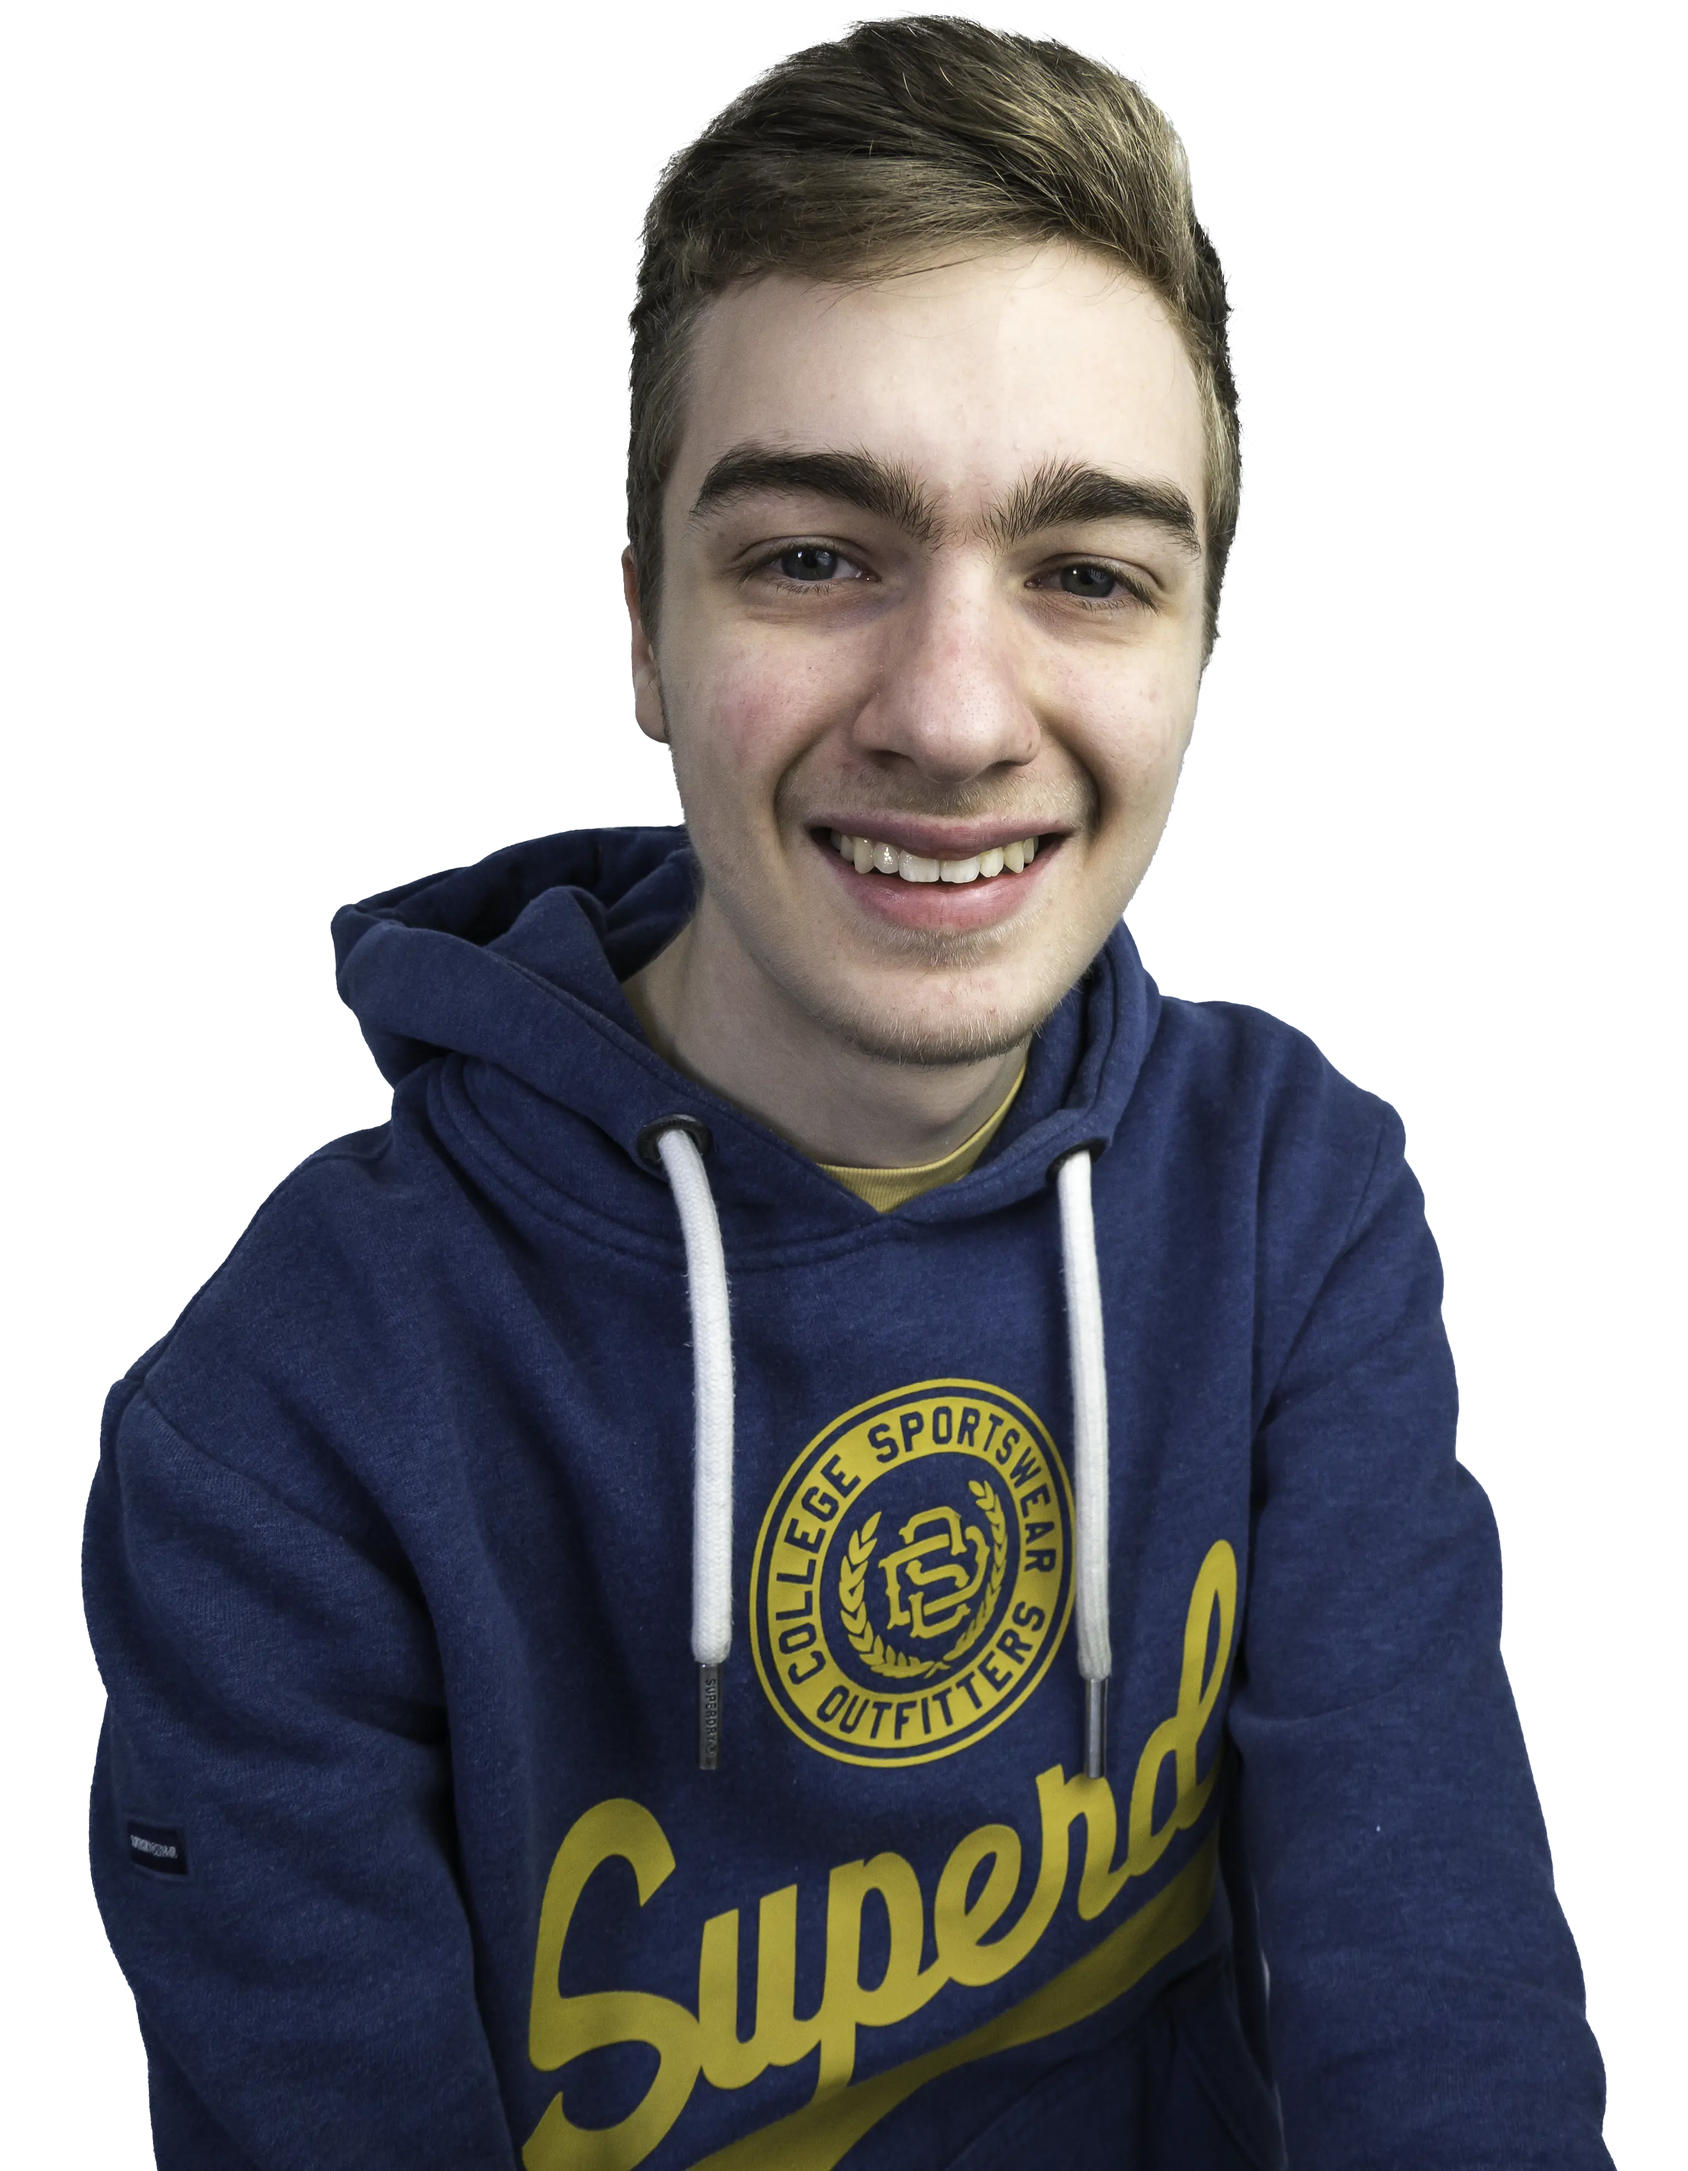
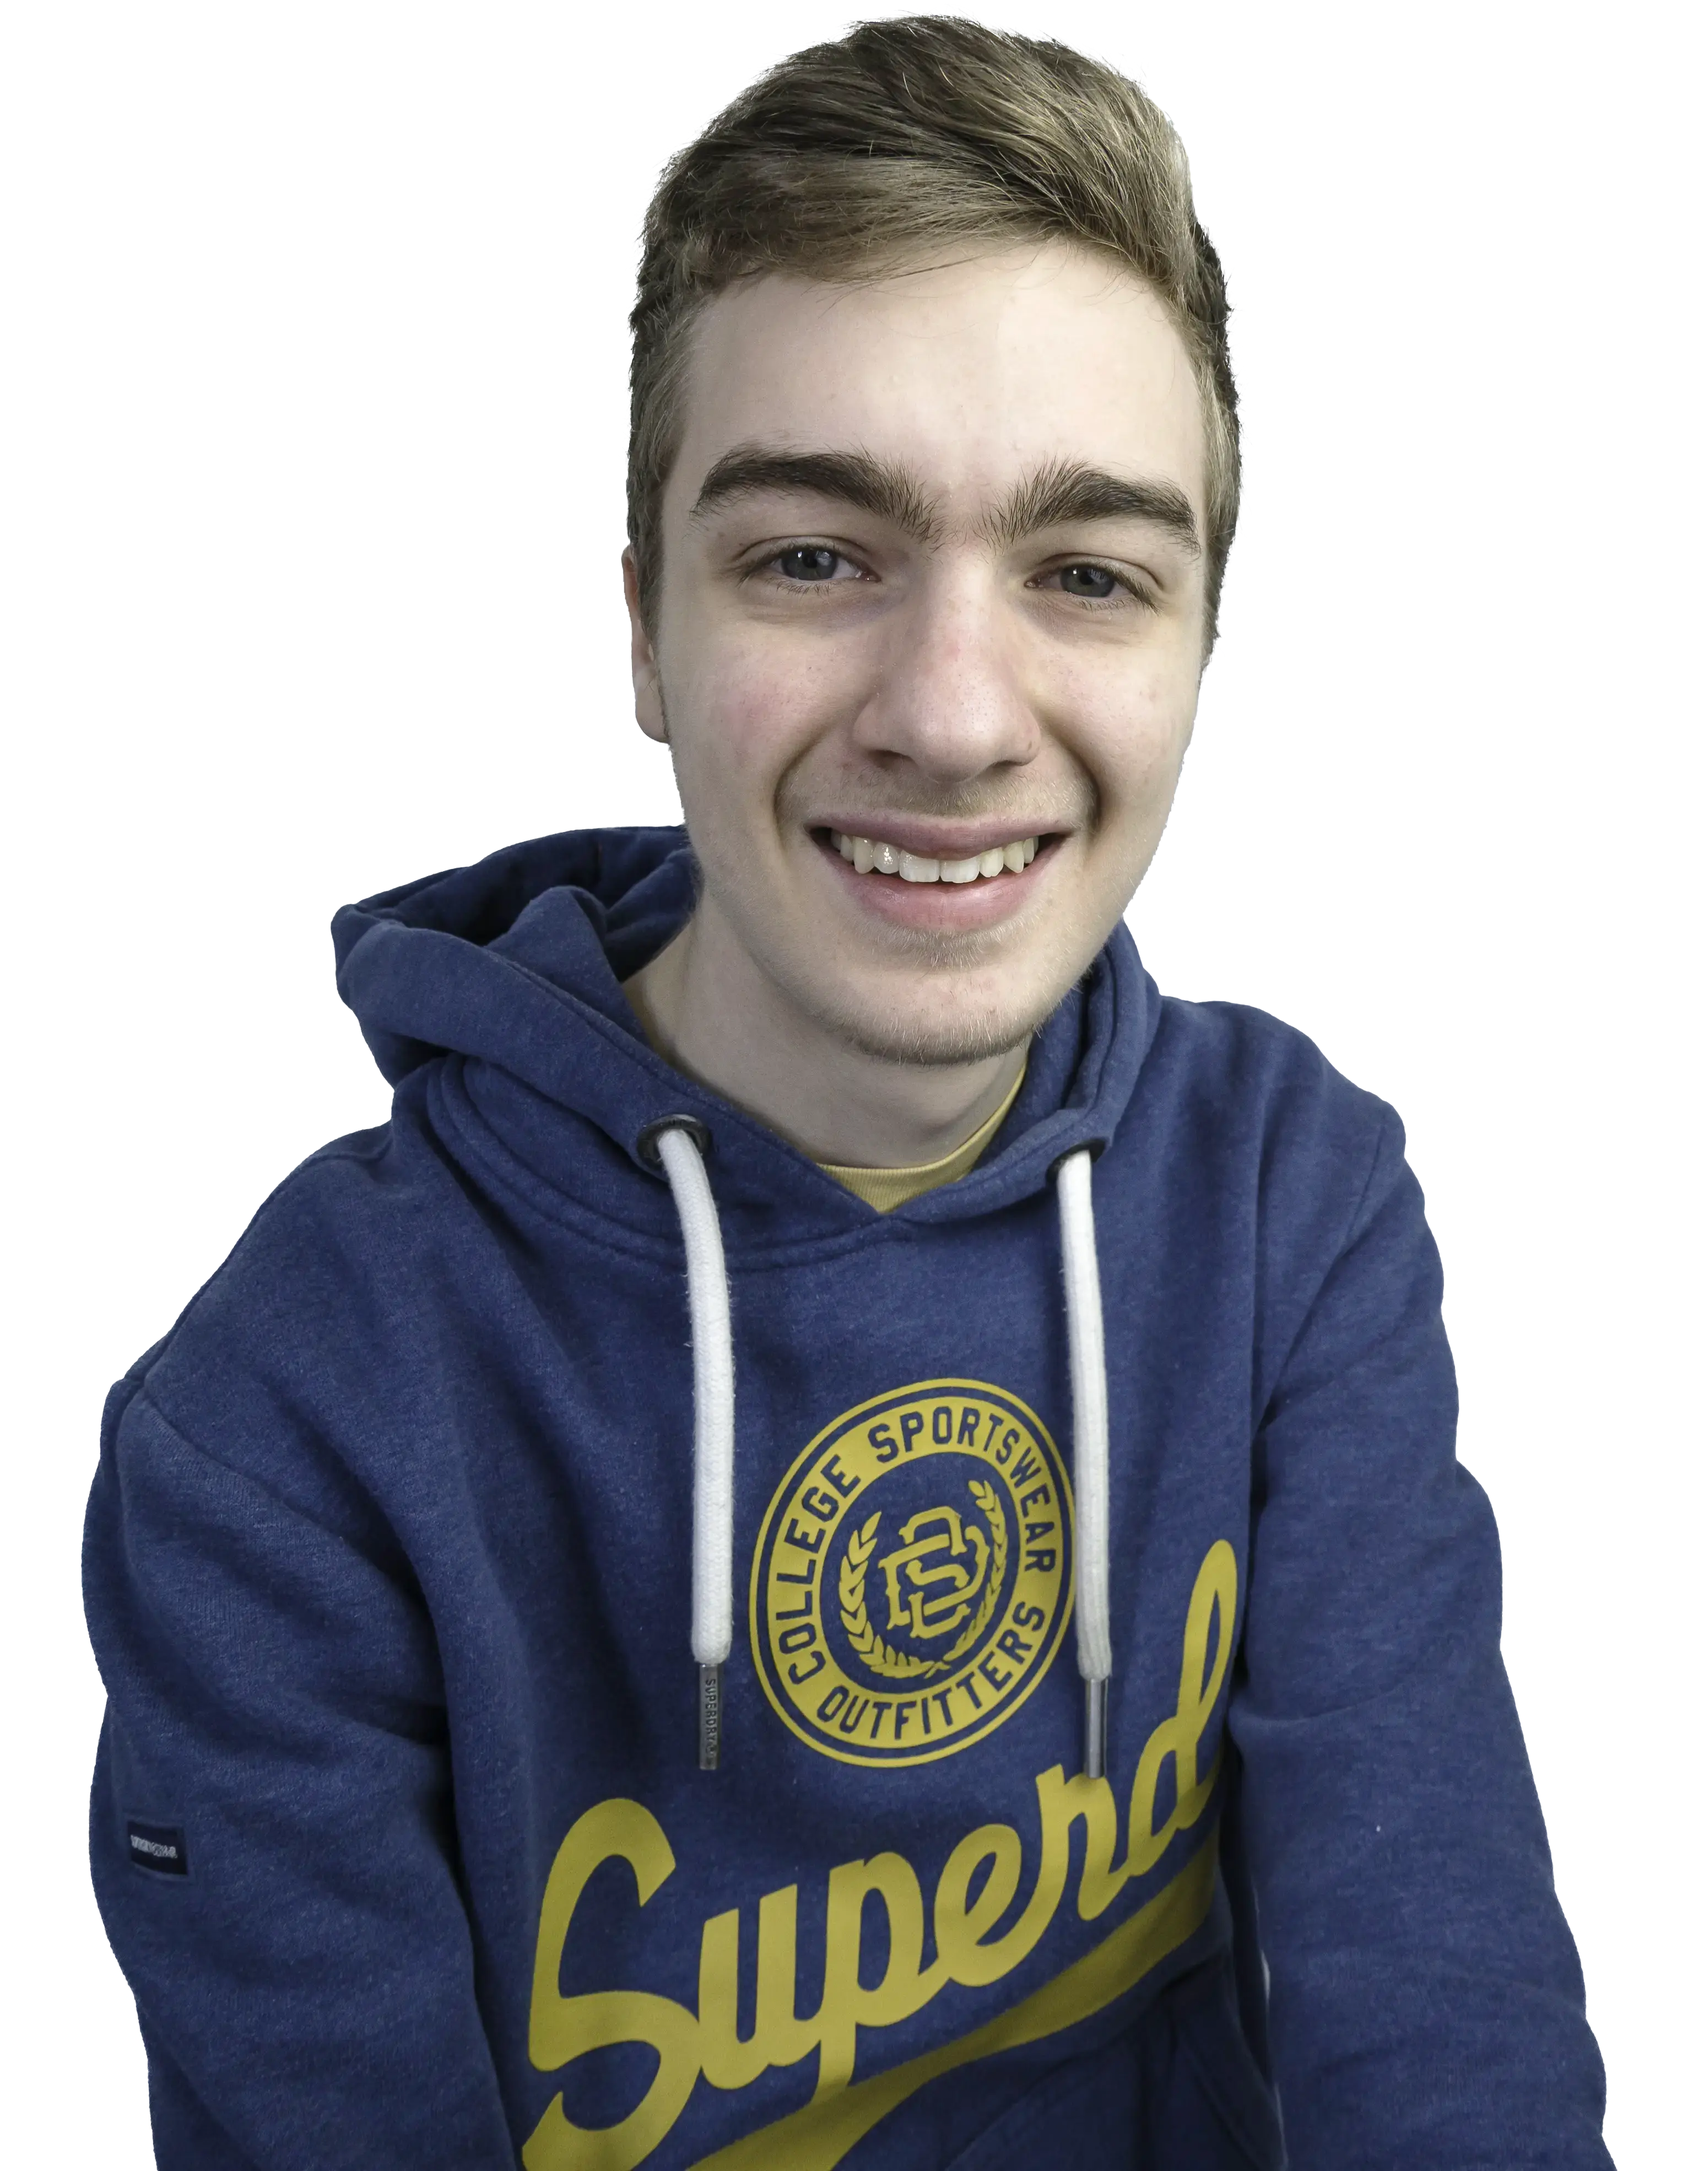
new pp

Changed region(s): [[0.6201, 0.0312, 0.6511, 0.0624]]

diff --git a/index.html b/index.html
@@ -40,7 +40,7 @@
     </div>
 
     <div class="intro">
-            <img style="border-radius: 250px" src="images\profilo.webp">
+            <img src="images\profilo_2b.webp">
         <div class="testointro">
             <h1>Ciao 👋<br>sono <b style="color: #E63946">Enrico</b><br>Un ragazzo che ama <b
                     style="color: #1e1d3c">grafica</b>, <b style="color: #1e1d3c">tecnologia</b> e <b
